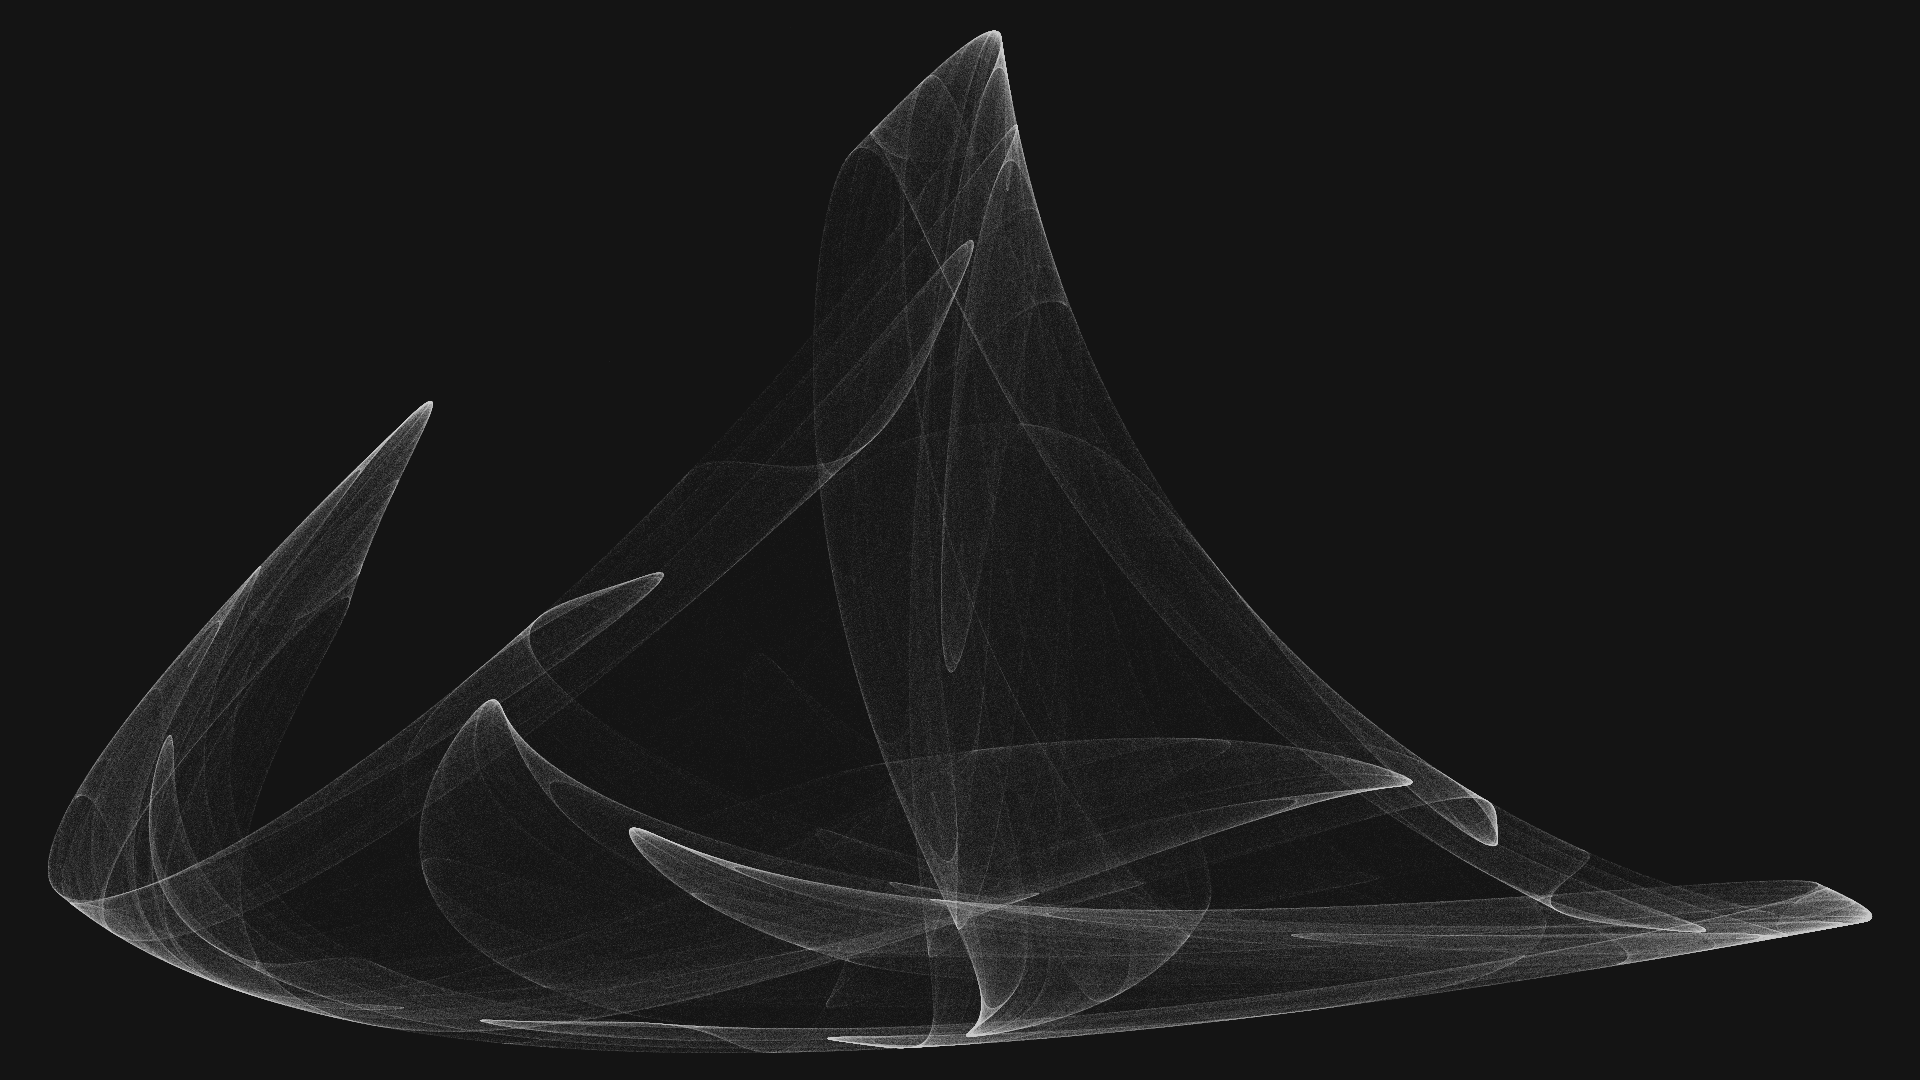
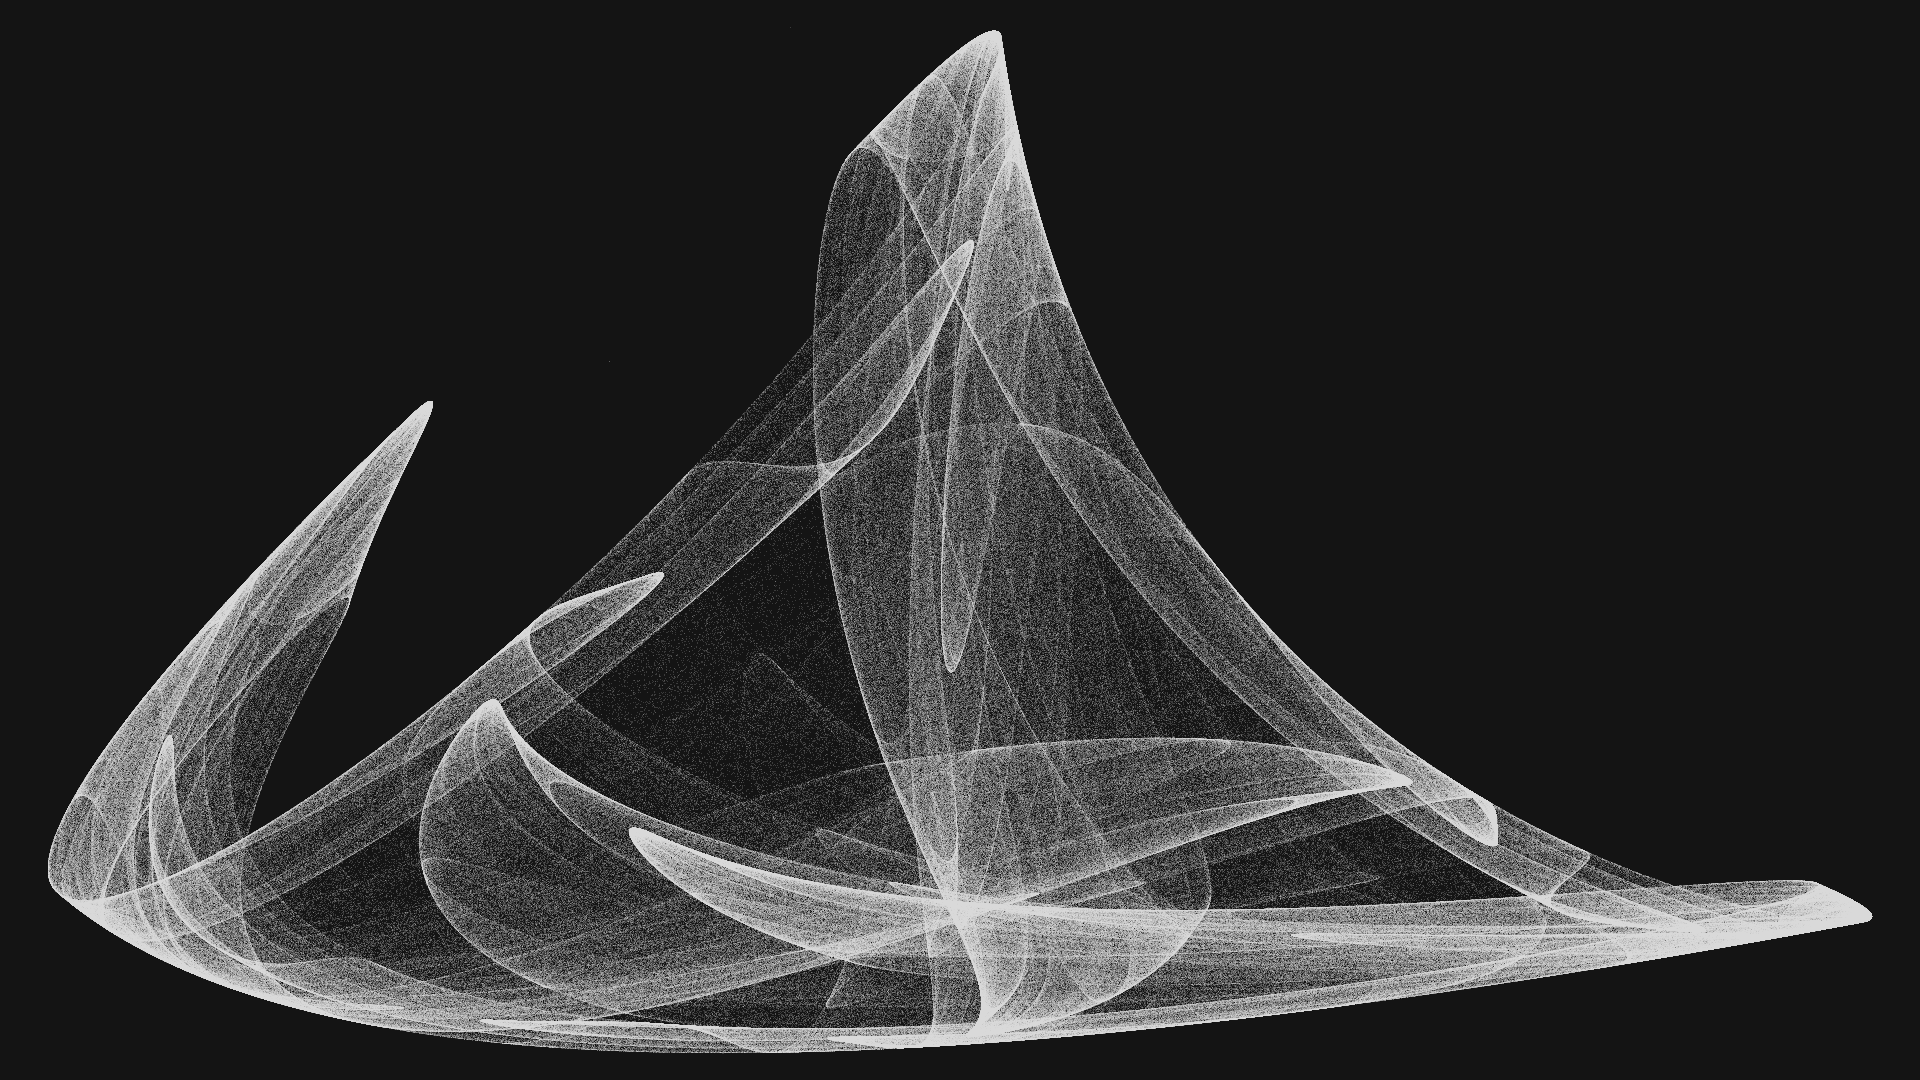
update images

Changed region(s): [[0.0, 0.0306, 0.9688, 0.9778]]

diff --git a/2_expand_one_attractor.py b/2_expand_one_attractor.py
@@ -12,10 +12,11 @@ import subprocess as sp
 import sys
 import time
 
-colorful = False
-plot_only = False
+colorful = True
+plot_only = True
 recompile = False
-img_width, img_height = 2*1920, 2*1080
+#img_width, img_height = 1920, 1080
+img_width, img_height = 1000, 1000
 
 def scale(arr, max_length):
     arr = (arr - np.min(arr))/np.max(arr-np.min(arr)) # [0, 1]
@@ -96,7 +97,7 @@ plt.close()
 def color_noise(x,y):
     rgb = []
     #for speed in [0.004, 0.002, 0.0021]:
-    for speed in [0.0009, 0.0004, 0.0005]:
+    for speed in [0.009, 0.0004, 0.0005]:
         rgb.append(255*py5.noise(x*speed,y*speed))
     return rgb
 # py5 version
